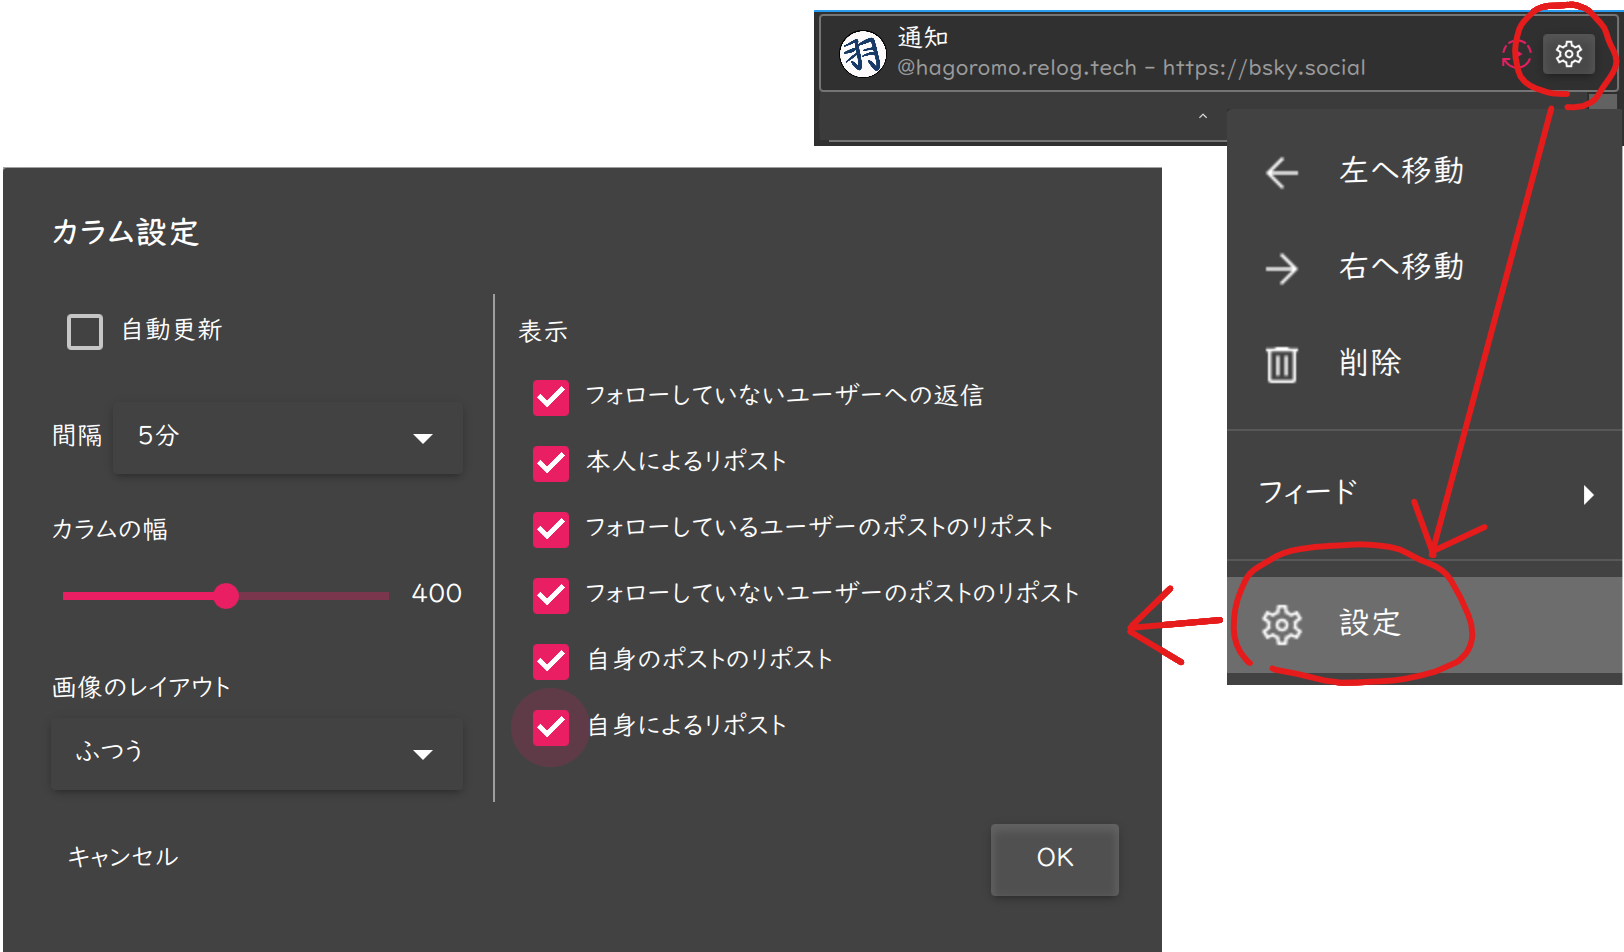
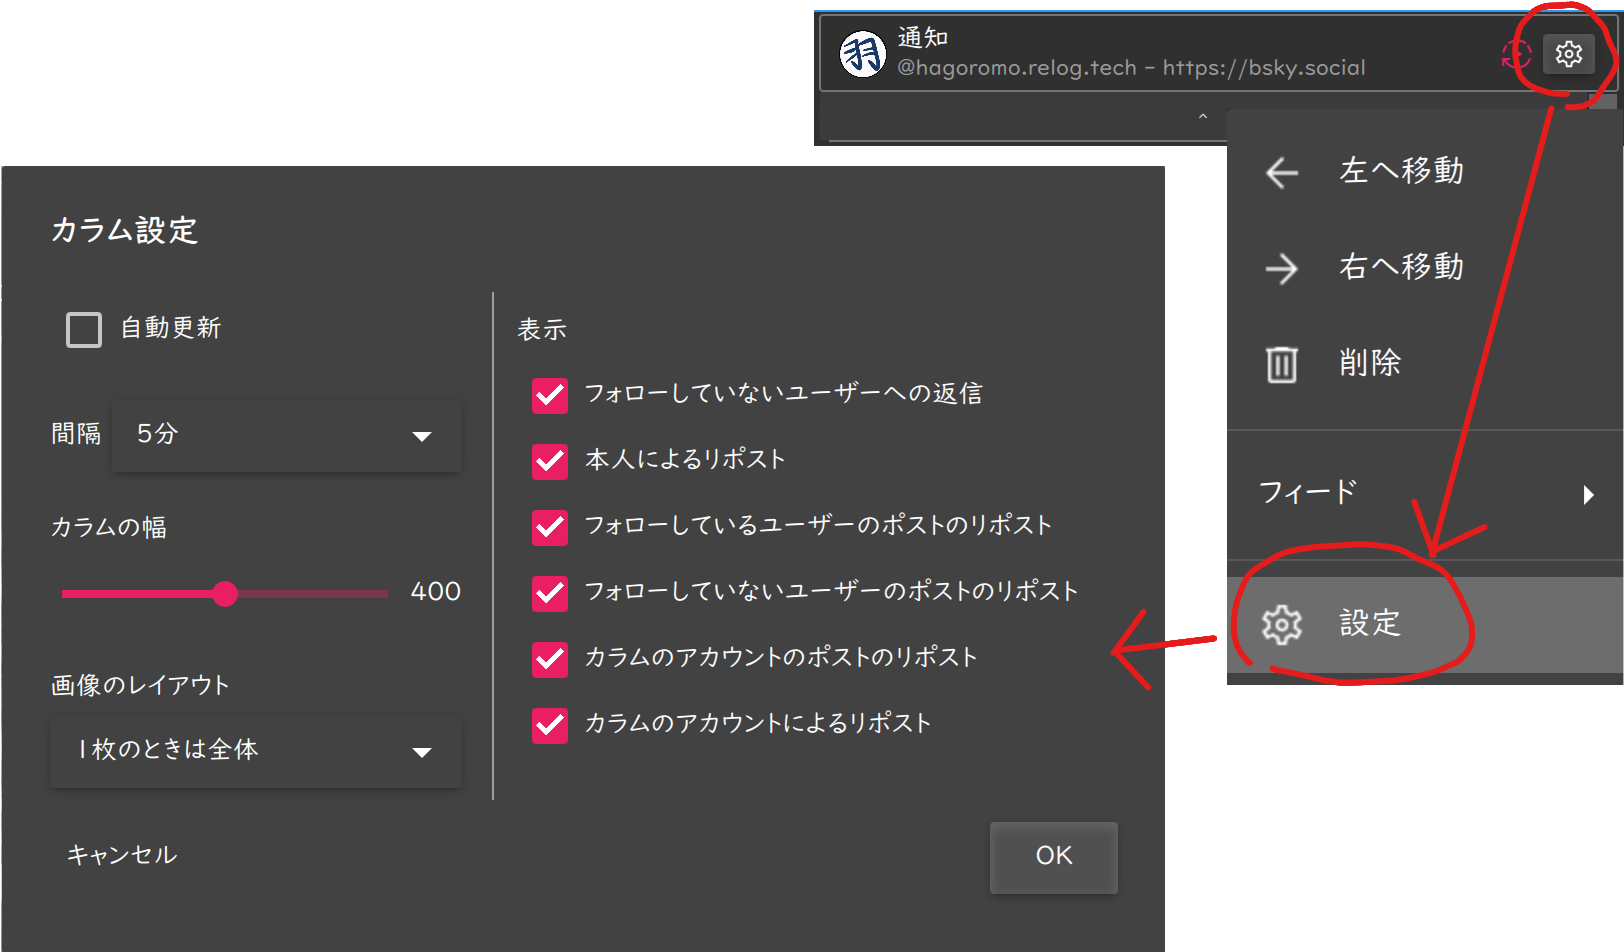
ドキュメント修正

diff --git a/web/content/docs/see/column-settings.ja.md b/web/content/docs/see/column-settings.ja.md
@@ -54,17 +54,26 @@ weight: 90
 - `フォローしているユーザーへの返信`
   - offにするとフォローしているユーザーへの返信のみ表示されます。
 - リポスト
-  - offにすると下表のとおり非表示になります。
+  - offにすると下表のとおり✔のリポストした人とリポストされた人の組み合わせのポストが非表示になります。
 
 |リポストした人→|自分|自分|自分|フォローしている|フォローしている(A)|フォローしている(A)|フォローしている|
 |---|---|---|---|---|---|---|---|
 |リポストされた人→|自分|フォローしている|フォローしていない|自分|フォローしている(A)|フォローしている(B)|フォローしていない|
-|本人によるリポスト|非表示|-|-|-|非表示|-|-|
-|フォローしているユーザーのポストのリポスト|-|非表示|-|-|非表示|非表示|-|
-|フォローしていないユーザーのポストのリポスト|-|-|非表示|-|-|-|非表示|
-|カラムのアカウントのリポスト|非表示|-|-|非表示|-|-|-|
-|カラムのアカウントによるリポスト|非表示|非表示|非表示|-|-|-|-|
+|本人によるリポスト|✔|-|-|-|✔|-|-|
+|フォローしているユーザーのポストのリポスト|-|✔|-|-|✔|✔|-|
+|フォローしていないユーザーのポストのリポスト|-|-|✔|-|-|-|✔|
+|カラムのアカウントのリポスト|✔|-|-|✔|-|-|-|
+|カラムのアカウントによるリポスト|✔|✔|✔|-|-|-|-|
 
+※自分 = カラムのアカウント
+
+|項目|選択条件の補足説明|
+|---|---|
+|本人によるリポスト|誰が、誰をリポストしているか|
+|フォローしているユーザーのポストのリポスト|誰をリポストしているか|
+|フォローしていないユーザーのポストのリポスト|誰をリポストしているか|
+|カラムのアカウントのリポスト|誰をリポストしているか|
+|カラムのアカウントによるリポスト|誰がリポストしているか|
 
 ## カラムの種類と表示内容の組み合わせ
 

diff --git a/web/content/docs/see/column-settings.en.md b/web/content/docs/see/column-settings.en.md
@@ -56,15 +56,22 @@ You can choose to display or not display the following
 - Repost
   - When set to off, it will be hidden as shown in the table below.
 
-|Reposted by→|Me|Me|Me|Following|Following(A)|Following(A)|Following|
+|Reposted by→|You|You|You|Following|Following(A)|Following(A)|Following|
 |---|---|---|---|---|---|---|---|
-|Was reposted→|Me|Following|Not following|Me|Following(A)|Following(B)|Not following|
-|Reposts by the user|Hide|-|-|-|Hide|-|-|
-|Reposts of users followed|-|Hide|-|-|Hide|Hide|-|
-|Reposts of users you do not follow|-|-|Hide|-|-|-|Hide|
-|Reposts of your posts|Hide|-|-|Hide|-|-|-|
-|Reposts by you|Hide|Hide|Hide|-|-|-|-|
+|Was reposted→|You|Following|Not following|You|Following(A)|Following(B)|Not following|
+|Reposts by the user|✔|-|-|-|✔|-|-|
+|Reposts of users followed|-|✔|-|-|✔|✔|-|
+|Reposts of users you do not follow|-|-|✔|-|-|-|✔|
+|Reposts of your posts|✔|-|-|✔|-|-|-|
+|Reposts by you|✔|✔|✔|-|-|-|-|
 
+|Item|Supplemental explanation of selection criteria|
+|---|---|
+|Reposts by the user|Who is reposting who?|
+|Reposts of users followed|Who you are reposting|
+|Reposts of users you do not follow|Who you are reposting|
+|Reposts of your posts|Who you are reposting|
+|Reposts by you|Who is reposting|
 
 ## Combination of column type and display content
 
